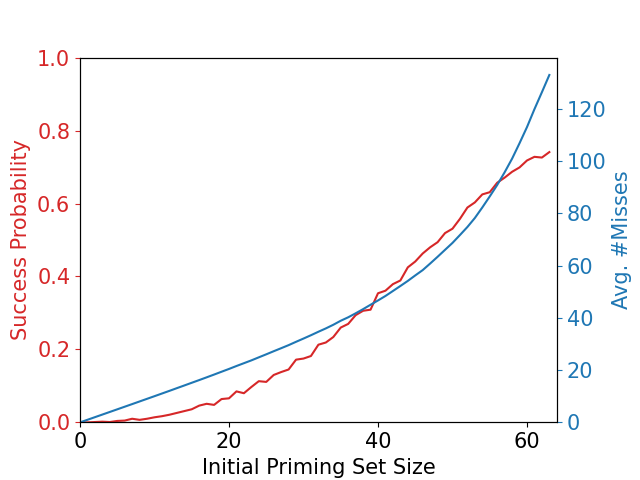
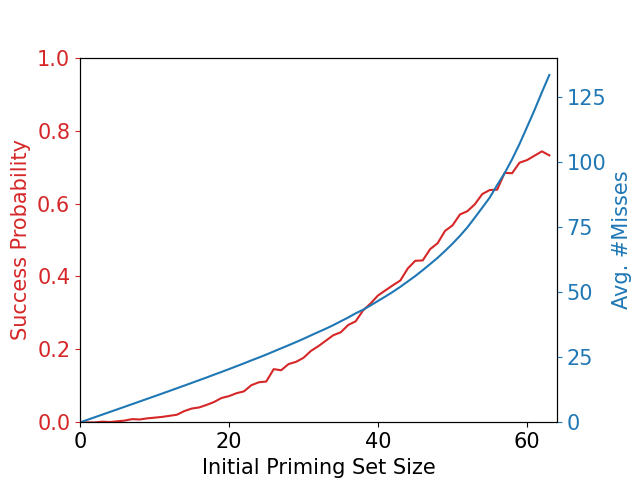
bugfix

diff --git a/functional/tlb.py b/functional/tlb.py
@@ -536,7 +536,7 @@ def prime_prune_probe_profiling(c, iterations=150, set_size=50):
 def ppp_wrapper(set_size):#
     print(f"Starting {set_size}")
     c = Cache(4, 4, replacement_policy="RPLRU")
-    return prime_prune_probe_profiling(c, iterations=1000, set_size=set_size)
+    return prime_prune_probe_profiling(c, iterations=4000, set_size=set_size)
 ### Main
 
 configs = {}
@@ -547,10 +547,10 @@ configs["w=4, N=64"]=Cache(4, 4, replacement_policy="RPLRU")
 #configs["w=8, N=1024"]= Cache(8, 7, replacement_policy="RPLRU")
 
 # Figure 5
-boxplot_eviction()
+#boxplot_eviction()
 #exit(1)
 # Figure 7
-prime_and_prune_once(configs, iterations=5000)
+#prime_and_prune_once(configs, iterations=5000)
 # exit()
 
 # Figure 8 (but with 15000 runs instead of 100000)
@@ -563,7 +563,7 @@ for name, c in configs.items():
     #print(misses)
     for l in misses:
         res.append(min(filter(lambda x: x != float("nan"), l), default=float("nan")))
-    success_res = success_rate
+    success_res.extend(success_rate)
     #exit()
     #for set_size in range(25, c.ways * c.lines):
     #    print(f"Step {set_size}")
@@ -589,7 +589,7 @@ for name, c in configs.items():
     ax.set_ylim(0,c.ways*2**c.idx_width*3)
 
     ticks = list((ax.get_yticks())) + [c.ways*2**c.idx_width]
-    ticks.remove(1000)
+    ticks.remove(64)
     ax.set_yticks(ticks)
     plt.savefig(f'ppp_profiling_w={c.ways}_N={c.ways*2**c.idx_width}.png')
 
